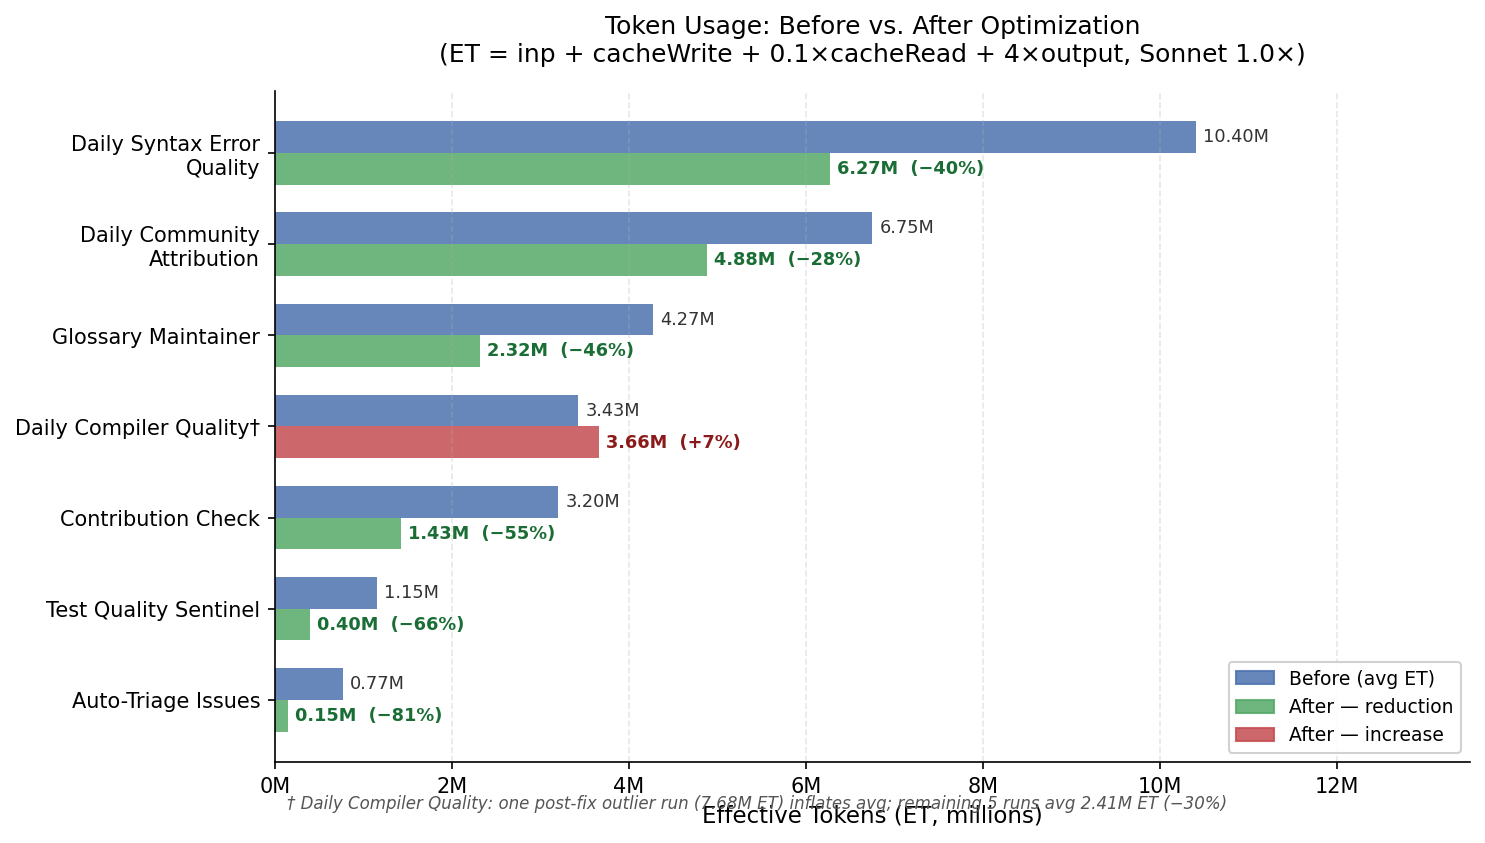
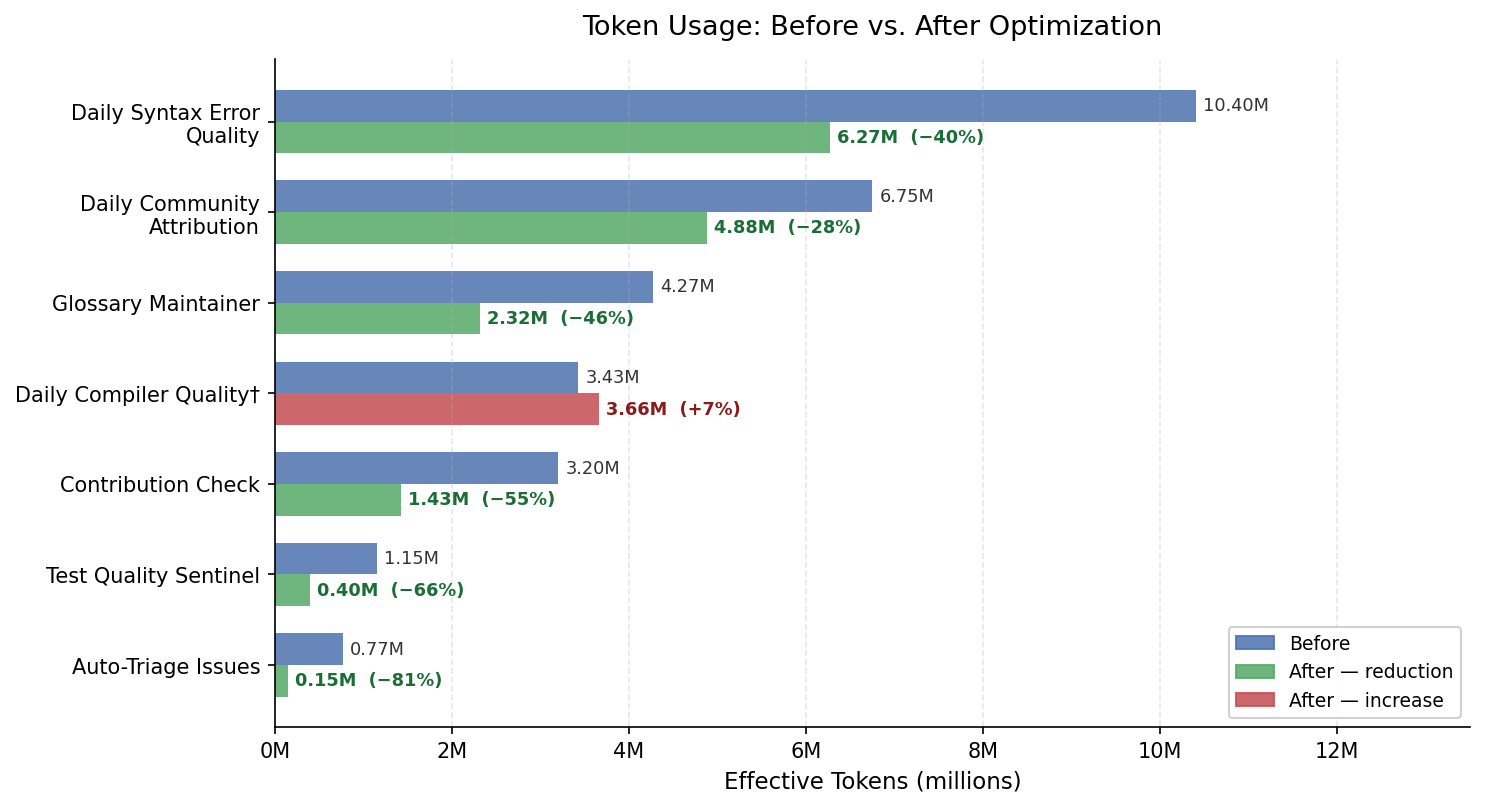
blog: clean up chart (remove ET formula from PNG, move footnote to caption)

Changed region(s): [[0.0, 0.0, 0.8673, 0.8663], [0.1859, 0.7735, 0.9912, 0.9901]]

diff --git a/scripts/paper/blog-post-draft.md b/scripts/paper/blog-post-draft.md
@@ -87,7 +87,7 @@ After deploying the auditor and optimizer across the gh-aw project and its downs
 
 ![Token savings chart: before vs. after optimization across 7 workflows, measured in effective tokens](token-savings-chart.png)
 
-*ET = (inp + cacheWrite) + 0.1×cacheRead + 4×output (Sonnet 1.0×). Before values (n=1–10) derived from optimizer issue analysis; after values measured from post-fix run artifacts. † Daily Compiler Quality: one post-fix outlier run at 7.68M ET inflates the average; the remaining 5 runs average 2.41M ET (−30%).*
+*Before values (n=1–10) derived from optimizer issue analysis; after values measured from post-fix run artifacts. † Daily Compiler Quality: one post-fix outlier run (7.68M ET) inflates the average; the remaining 5 runs average 2.41M ET (−30%).*
 
 The improvements range from modest (Daily Community Attribution, −28%) to dramatic (Auto-Triage Issues, −81%). The variation reflects the nature of the fix applied: simple toolset pruning saves less than eliminating whole categories of work.
 
